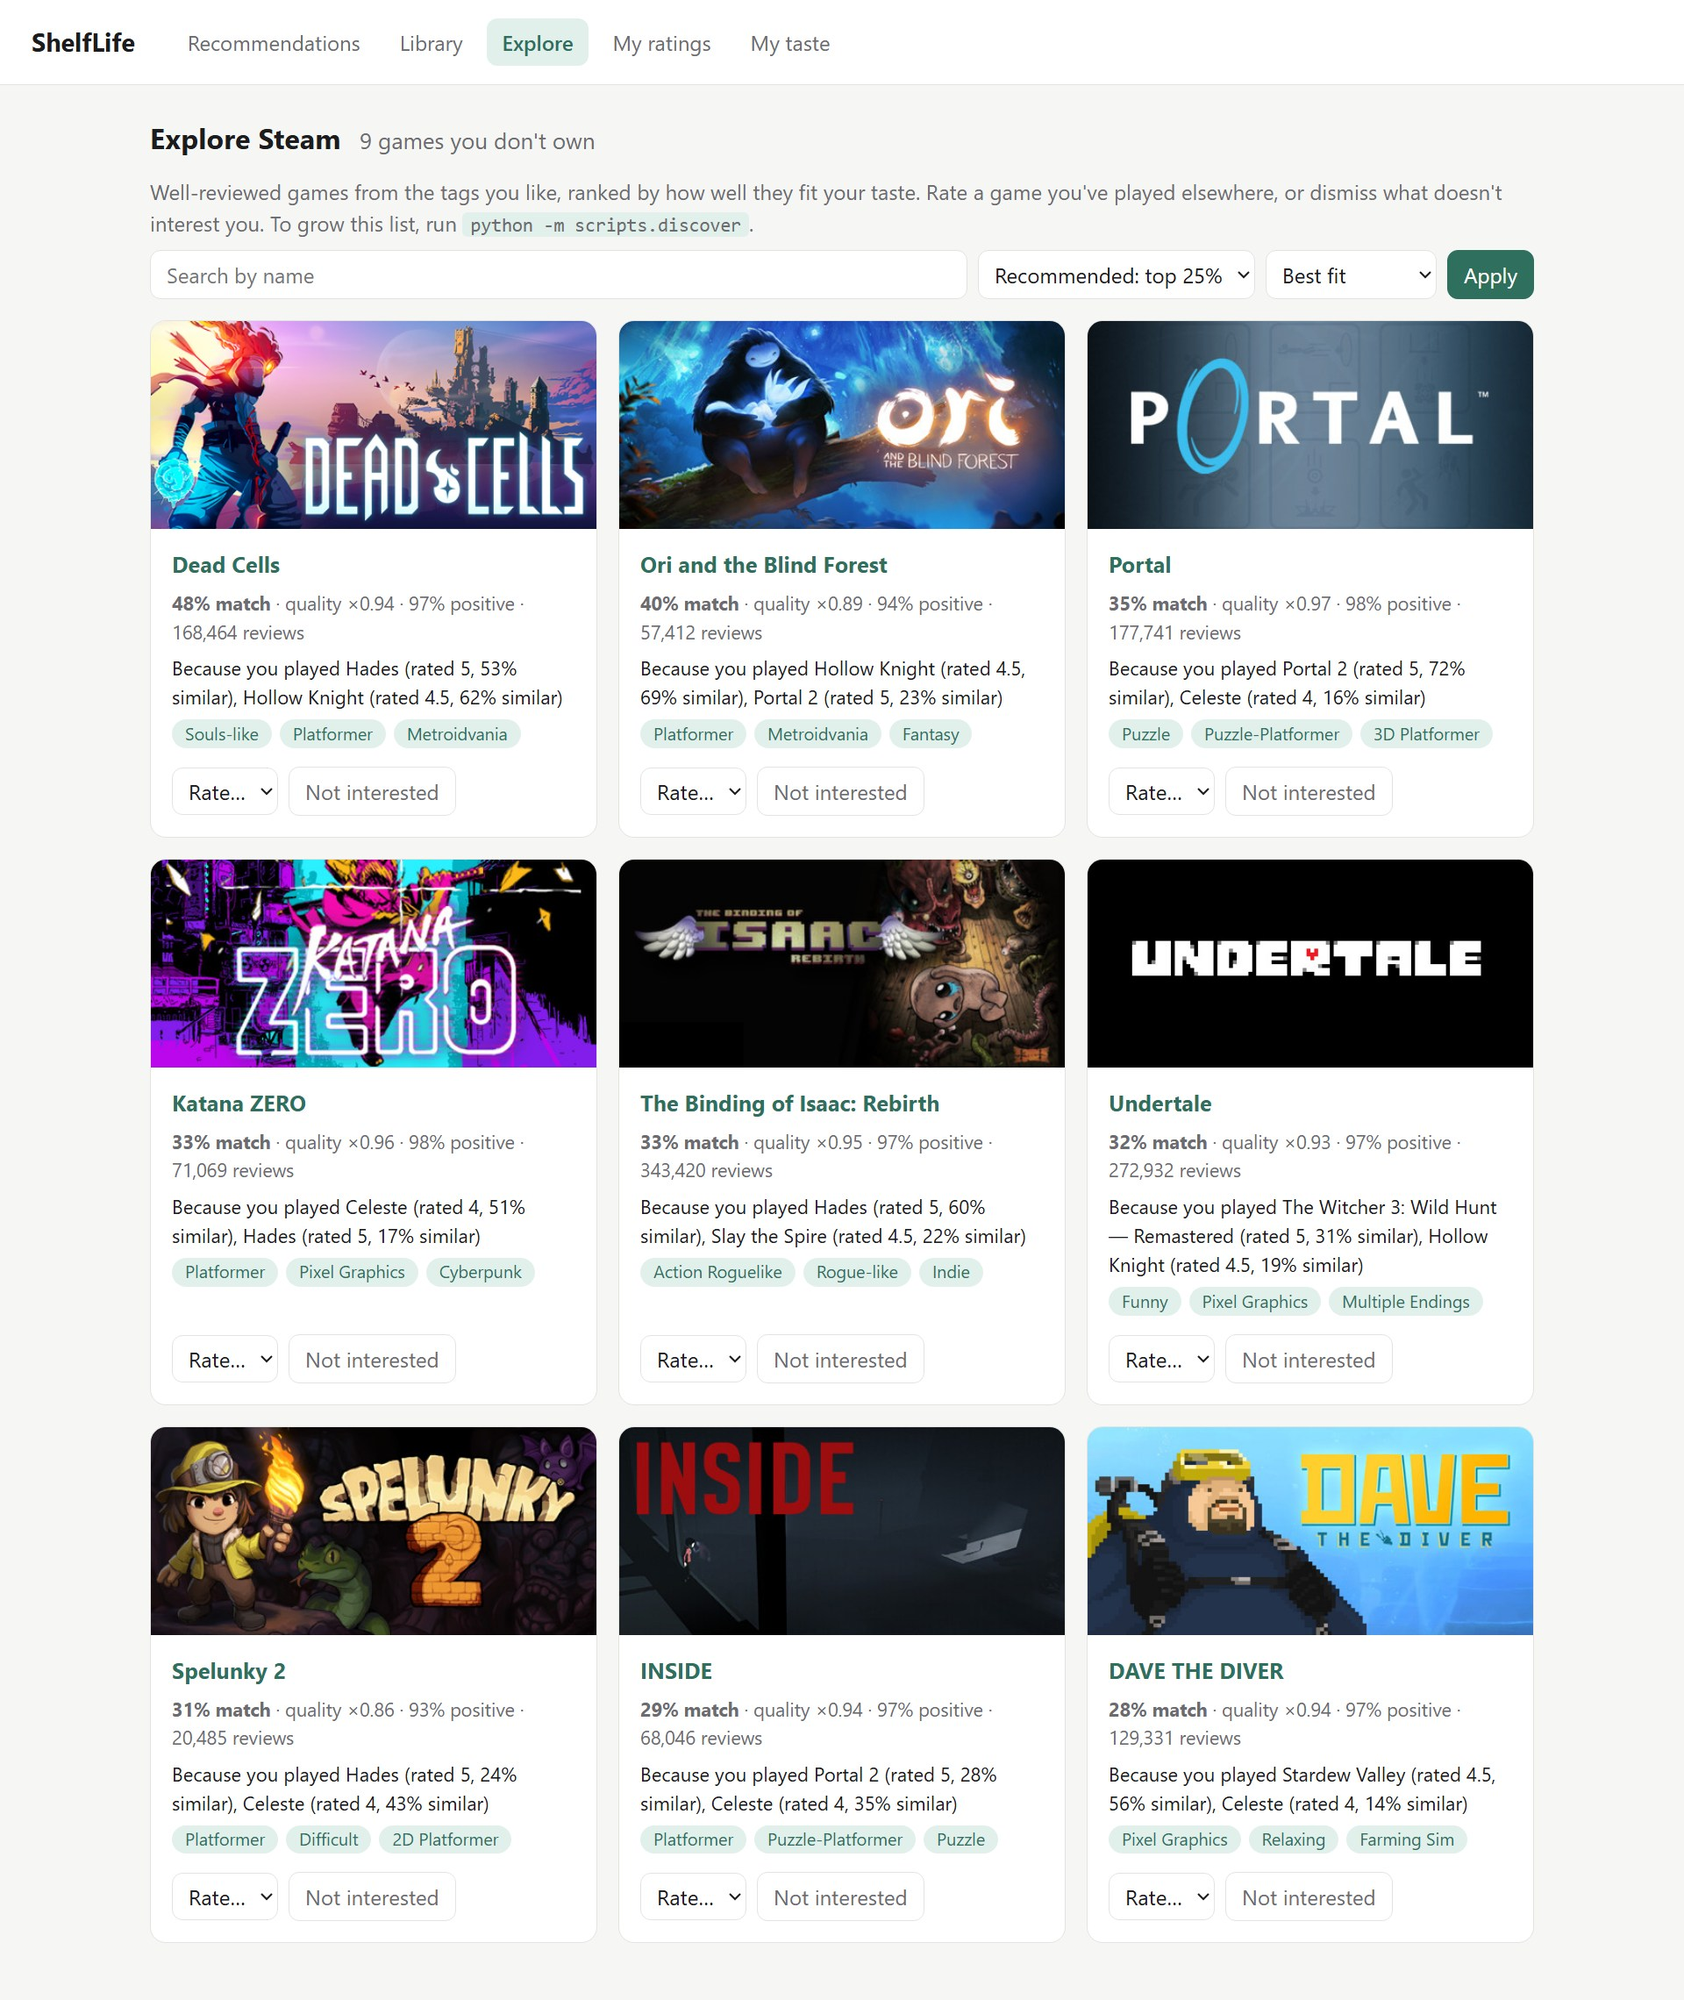
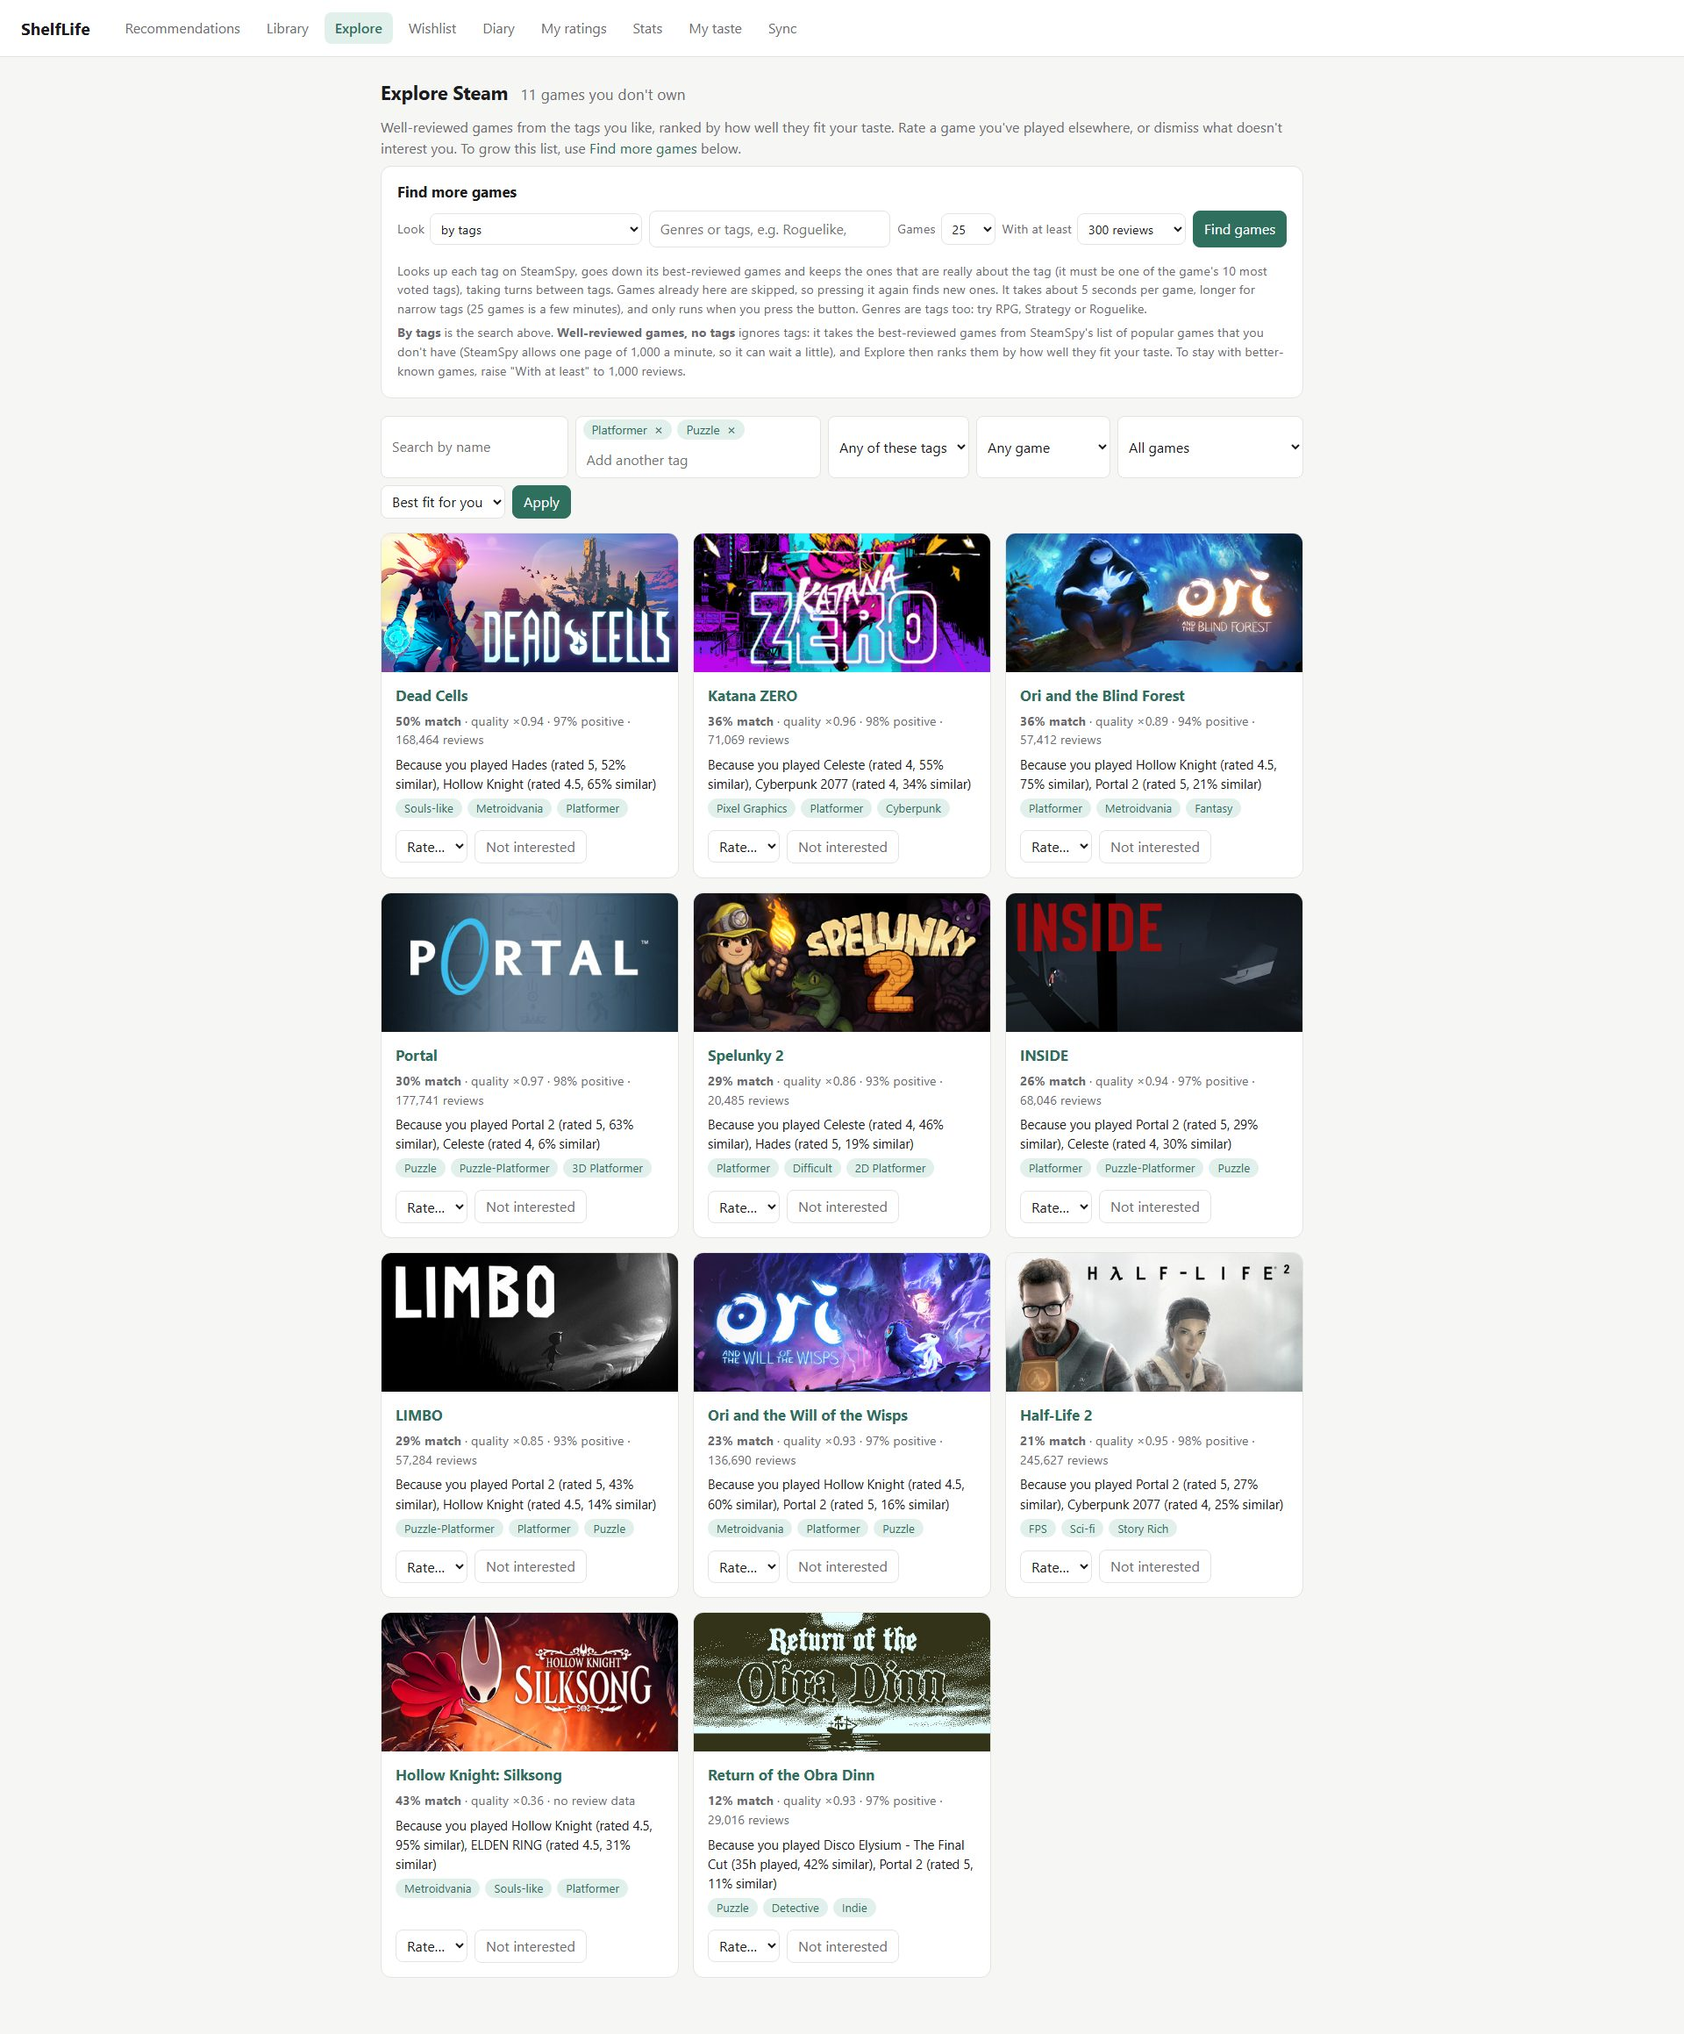
Update the README and retake the screenshots
New screenshots for the wishlist, diary, stats, taste and sync pages, and
retaken ones for recommendations, library, explore, game page and ratings.
The demo database builder now also makes diary statuses, favorites and a
wishlist. README: four recommendation lists, a wishlist page, and the taste
mix described correctly.

diff --git a/tools/make_demo_db.py b/tools/make_demo_db.py
@@ -13,7 +13,7 @@ import os
 import random
 import sys
 import time
-from datetime import datetime, timedelta, timezone
+from datetime import date, datetime, timedelta, timezone
 from pathlib import Path
 
 if len(sys.argv) != 2 or "demo" not in Path(sys.argv[1]).name:
@@ -26,7 +26,7 @@ import requests  # noqa: E402
 
 from shelflife import diary  # noqa: E402
 from shelflife.db import SessionLocal, init_db  # noqa: E402
-from shelflife.models import Game, LibraryEntry  # noqa: E402
+from shelflife.models import Game, LibraryEntry, WishlistItem  # noqa: E402
 from shelflife.sync import enrich_one  # noqa: E402
 
 NOW = datetime.now(timezone.utc).replace(tzinfo=None)
@@ -71,6 +71,28 @@ RATINGS = {  # app id: (rating, review)
     646570: (4.5, "Perfect deckbuilder."), 374320: (4.5, ""),
 }
 NOT_INTERESTED = [570]  # Dota 2
+# Where the imaginary player is with a game: app id -> (status, started, finished); dates are made up
+STATUSES = {
+    1245620: ("playing", date(2026, 9, 2), None),  # Elden Ring
+    413150: ("playing", date(2025, 3, 14), None),  # Stardew Valley
+    427520: ("playing", date(2026, 1, 8), None),  # Factorio
+    292030: ("played", date(2022, 11, 2), date(2023, 2, 20)),  # The Witcher 3
+    1145360: ("played", date(2023, 5, 1), date(2023, 7, 9)),  # Hades
+    620: ("played", date(2019, 1, 5), date(2019, 1, 9)),  # Portal 2
+    367520: ("played", date(2024, 2, 3), date(2024, 3, 1)),  # Hollow Knight
+    504230: ("played", date(2024, 6, 10), date(2024, 6, 14)),  # Celeste
+    632470: ("played", date(2024, 9, 1), date(2024, 10, 12)),  # Disco Elysium
+    646570: ("played", date(2025, 1, 4), date(2025, 2, 2)),  # Slay the Spire
+    1091500: ("played", date(2025, 6, 6), date(2025, 7, 30)),  # Cyberpunk 2077
+    268910: ("dropped", date(2023, 8, 1), date(2023, 8, 20)),  # Cuphead
+    374320: ("dropped", date(2022, 4, 1), date(2022, 5, 15)),  # Dark Souls III
+}
+FAVORITES = [1145360, 292030, 413150]  # Hades, The Witcher 3, Stardew Valley
+# Unowned games on the imaginary player's wishlist: app id -> (your rank or 0, days ago added)
+WISHLIST = {
+    1868140: (1, 400), 1229490: (2, 90), 1604030: (0, 30), 1817070: (3, 700), 1593500: (0, 15),
+    1888930: (0, 200), 1196590: (4, 55), 1151640: (0, 8), 1172620: (0, 300),
+}
 
 
 def global_achievements(app_id):
@@ -155,6 +177,17 @@ def main():
         for app_id in NOT_INTERESTED:
             if s.get(Game, app_id):
                 diary.set_not_interested(s, app_id, True)
+
+        for app_id, (status, started, finished) in STATUSES.items():
+            if s.get(Game, app_id):
+                diary.set_status(s, app_id, status, started, finished)
+        for app_id in FAVORITES:
+            if s.get(Game, app_id):
+                diary.set_favorite(s, app_id, True)
+        for app_id, (rank, days_ago) in WISHLIST.items():
+            if s.get(Game, app_id):
+                s.add(WishlistItem(steam_app_id=app_id, priority=rank, added_at=NOW - timedelta(days=days_ago), seen_at=NOW))
+        s.commit()
 
         print(f"\nDemo database ready: {DEMO_PATH}")
         print(f"games: {s.query(Game).count()} | library entries: {s.query(LibraryEntry).count()} | ratings: {len(diary.load_ratings(s))}")

diff --git a/README.md b/README.md
@@ -15,28 +15,46 @@ Steam knows what you own and how long you've played, but not what you *thought* 
 - **Family Sharing import** (optional): games you can play through a Steam Family.
 - **Wishlist:** your Steam wishlist, read by Sync and ranked by how well each game fits you (it never teaches your taste).
 - **Diary:** 0.5–5 star ratings, reviews, "not interested" marks, a status (playing, played, dropped) with dates, and favorites, stored locally.
-- **Recommendations:** three lists (backlog, family, games you don't own), each with a reason.
-- **Web app:** recommendations, a library you can rate and edit in place, an Explore page with a button to find more games, similar games for any game, a diary, stats, game pages, your taste profile, and a Sync button.
+- **Recommendations:** four lists (backlog, family, your wishlist, games you don't own), each pick with a reason.
+- **Web app:** recommendations, a library you can rate and edit in place, an Explore page with a button to find more games, similar games for any game, a wishlist page, a diary, stats, game pages, your taste profile, and a Sync button.
 
 ## Screenshots
 
-Taken on demo data: popular Steam games with made-up playtime, ratings and reviews for an imaginary player.
+Taken on demo data: popular Steam games with made-up playtime, ratings, diary entries and wishlist for an imaginary player.
 
-**Recommendations**, in three lists, each pick with the games and tags behind it:
+**Recommendations**, in four lists (backlog, family library, your wishlist and games to discover), each pick with the games and tags behind it:
 
 ![Recommendations](docs/screenshots/recommendations.jpg)
 
-**Library**, with ratings and hours editable in the row, and **Explore** for games you don't own:
+**Library**, with ratings, statuses and hours editable in the row:
 
 ![Library](docs/screenshots/library.jpg)
 
+**Explore**, for games you don't own: a panel to find more games from Steam, and a tag picker with "all of / any of" (here filtered to Platformer or Puzzle):
+
 ![Explore](docs/screenshots/explore.jpg)
 
-**Game page**, showing why a game fits you and how you played it, and **My ratings**:
+**Wishlist**, read from Steam and ranked by how well each game fits your taste, with your own rank and when you added it:
+
+![Wishlist](docs/screenshots/wishlist.jpg)
+
+**Diary**, one tab per status (playing, played, dropped, favorites) with your dates and reviews, and **Stats**:
+
+![Diary](docs/screenshots/diary.jpg)
+
+![Stats](docs/screenshots/stats.jpg)
+
+**Game page**, showing why a game fits you, how you played it, and where you are with it, and **My ratings**:
 
 ![Game page](docs/screenshots/game-page.jpg)
 
 ![My ratings](docs/screenshots/my-ratings.jpg)
+
+**My taste**, the tag profile behind it all and the choice of what it learns from, and **Sync**, which brings everything up to date in the background:
+
+![My taste](docs/screenshots/taste.jpg)
+
+![Sync](docs/screenshots/sync.jpg)
 
 ## Setup
 
@@ -105,7 +123,7 @@ You can also sync from the web app: its **Sync** page runs the same steps (libra
 
 `python -m scripts.web`, then open <http://127.0.0.1:8000>. It listens only on your own machine and has no login, so don't expose it to a network.
 
-- **Recommendations:** your backlog, family and discovery lists, paged, each pick with the games and tags behind it. Rate or dismiss from the card.
+- **Recommendations:** your backlog, family, wishlist and discovery lists, paged, each pick with the games and tags behind it. Rate or dismiss from the card.
 - **Library:** your owned and family games with covers. Set a rating or a status, or type hours for family games, right in the row. Search by name, filter by tags or status, sort by most played or **recently played**, or use the **Recommended** filter to keep the unplayed games that fit you best (top 50%, 25% or 10%).
 - **Wishlist:** your Steam wishlist ranked by how well each game fits your taste, with your own rank and the date you added each one. Search, the tag picker and the best-fit cut work as in Explore, and you can sort by fit, your own order, newest added, reviews or name. It is read by Sync (the wishlist must be public on Steam) and only shows games whose store details have arrived. Wishlisted games also get a badge and an "only my wishlist" filter in Explore, a "From your wishlist" list on the home page (instead of in "To discover"), and a note on their game page. Wanting a game is not liking it, so a wishlist never changes your taste profile.
 - **Explore:** games you don't own, ranked by fit, with the same filter, search, tags and sorting. **Find more games** adds new ones for the genres or tags you pick (or the tags you like most), or with no tags at all (the best-reviewed games from SteamSpy's list of popular games), for a number of games you choose, and shows its progress. Every game page has **Games like this** (Explore ranked by how close games are to that one) and a button to search Steam for new games like it.
@@ -174,7 +192,7 @@ Game names, store data and cover art belong to Valve and the game publishers. Th
 
 *Recency:* Steam gives only lifetime hours and a last-played date, and one minute today resets that date. So the unlock dates of your achievements show *when* you really played: each unlock counts less the older it is (halving every 3 years). A game you play right now counts as fully current.
 
-**2. Taste profile.** What the profile learns from is your choice, on the My taste page: *Mix of both* (the default), *Your ratings only* or *How you play only*. In the mix, a game you rated counts 70% by its rating, `(rating − 3) / 2`, from −1 to +1, and 30% by how you played it (the engagement score scaled from 0 to 1, so play lifts a rating and never lowers it); a game you did not rate counts by how you played it, up to +0.5. "Not interested" counts as 2 stars and a favorite as 5 until you rate the game. In *ratings only* a game you did not rate teaches nothing; in *how you play only* ratings, favorites and "not interested" are ignored for taste ("not interested" still hides the game). A status (playing, played, dropped) is a record only: it takes the game out of the recommendations but does not change your taste, because "dropped" can mean a story game quit halfway or an endless multiplayer game you left after hundreds of hours. The profile sums each game's tags times its weight. A tag counts by how relevant it is to the game: its votes relative to the game's top tag, squared (a tag with half the top tag's votes counts a quarter as much), for the top 15 tags, scaled down for tags common in your library. The squaring is one setting, `RELEVANCE_POWER` in `shelflife/tags.py`.
+**2. Taste profile.** What the profile learns from is your choice, on the My taste page: *Mix of both* (the default), *Your ratings only* or *How you play only*. In the mix, a game you rated counts 70% by its rating, `(rating − 3) / 2`, from −1 to +1, and 30% by how you played it (the engagement score scaled from 0 to 1, so a game you loved but barely played counts a little less than its rating, and one you disliked but played a lot a little less negative); a game you did not rate counts by how you played it, up to +0.5. "Not interested" counts as 2 stars and a favorite as 5 until you rate the game. In *ratings only* a game you did not rate teaches nothing; in *how you play only* ratings, favorites and "not interested" are ignored for taste ("not interested" still hides the game). A status (playing, played, dropped) is a record only: it takes the game out of the recommendations but does not change your taste, because "dropped" can mean a story game quit halfway or an endless multiplayer game you left after hundreds of hours. The profile sums each game's tags times its weight. A tag counts by how relevant it is to the game: its votes relative to the game's top tag, squared (a tag with half the top tag's votes counts a quarter as much), for the top 15 tags, scaled down for tags common in your library. The squaring is one setting, `RELEVANCE_POWER` in `shelflife/tags.py`.
 
 **3. Finding new games.** Explore's **Find more games** button (and `python -m scripts.discover`) works like this: SteamSpy lists every game under a tag, with its review counts. That list is loose (any game with even a few votes for the tag is in it), so games you already have and games with under 300 reviews are dropped, the rest are ranked by the lower bound of their positive-review share (more reviews rank higher at equal praise), and then, going down the ranking with the tags taking turns, each game's own tag votes are read and the game is kept only if the searched tag is among its 10 most voted. The others are remembered, with their tags, so they are not fetched again. Kept games get their store details fetched, about 5 seconds a game in all, and then take part in the rankings. For "games like this one", the tags searched are that game's most distinctive ones and a game must also be at least 15% similar to it. SteamSpy matches tag names in a particular letter case (and a few under older names), so several spellings are tried. Without tags, the search reads SteamSpy's popularity-ordered list instead (up to 3 pages of 1,000 games, a minute apart as SteamSpy asks, and only as many as needed) and keeps the best-reviewed games you don't have, with no tag check; raise "With at least" to 1,000 reviews to favour better-known games.
 
@@ -196,7 +214,7 @@ python -m pytest
 
 The tests use a temporary database and folder (never your own data) and make no network calls. Stack: Python, FastAPI with Jinja templates, SQLite through SQLAlchemy, pytest, GitHub Actions. The data model is in `shelflife/models.py`.
 
-To regenerate the screenshots, `python tools/make_demo_db.py demo.db` builds the demo database (real games fetched from Steam, made-up play history), and `DATABASE_URL=sqlite:///demo.db python -m scripts.web --port 8001` runs the app on it.
+To regenerate the screenshots, `python tools/make_demo_db.py demo.db` builds the demo database (real games fetched from Steam; made-up play history, ratings, diary entries and wishlist), and `DATABASE_URL=sqlite:///demo.db python -m scripts.web --port 8001` runs the app on it. For the Sync page to show its buttons, also set any placeholder `STEAM_API_KEY` and `STEAM_ID` for that run; nothing is sent unless you press a button.
 
 ## License
 
